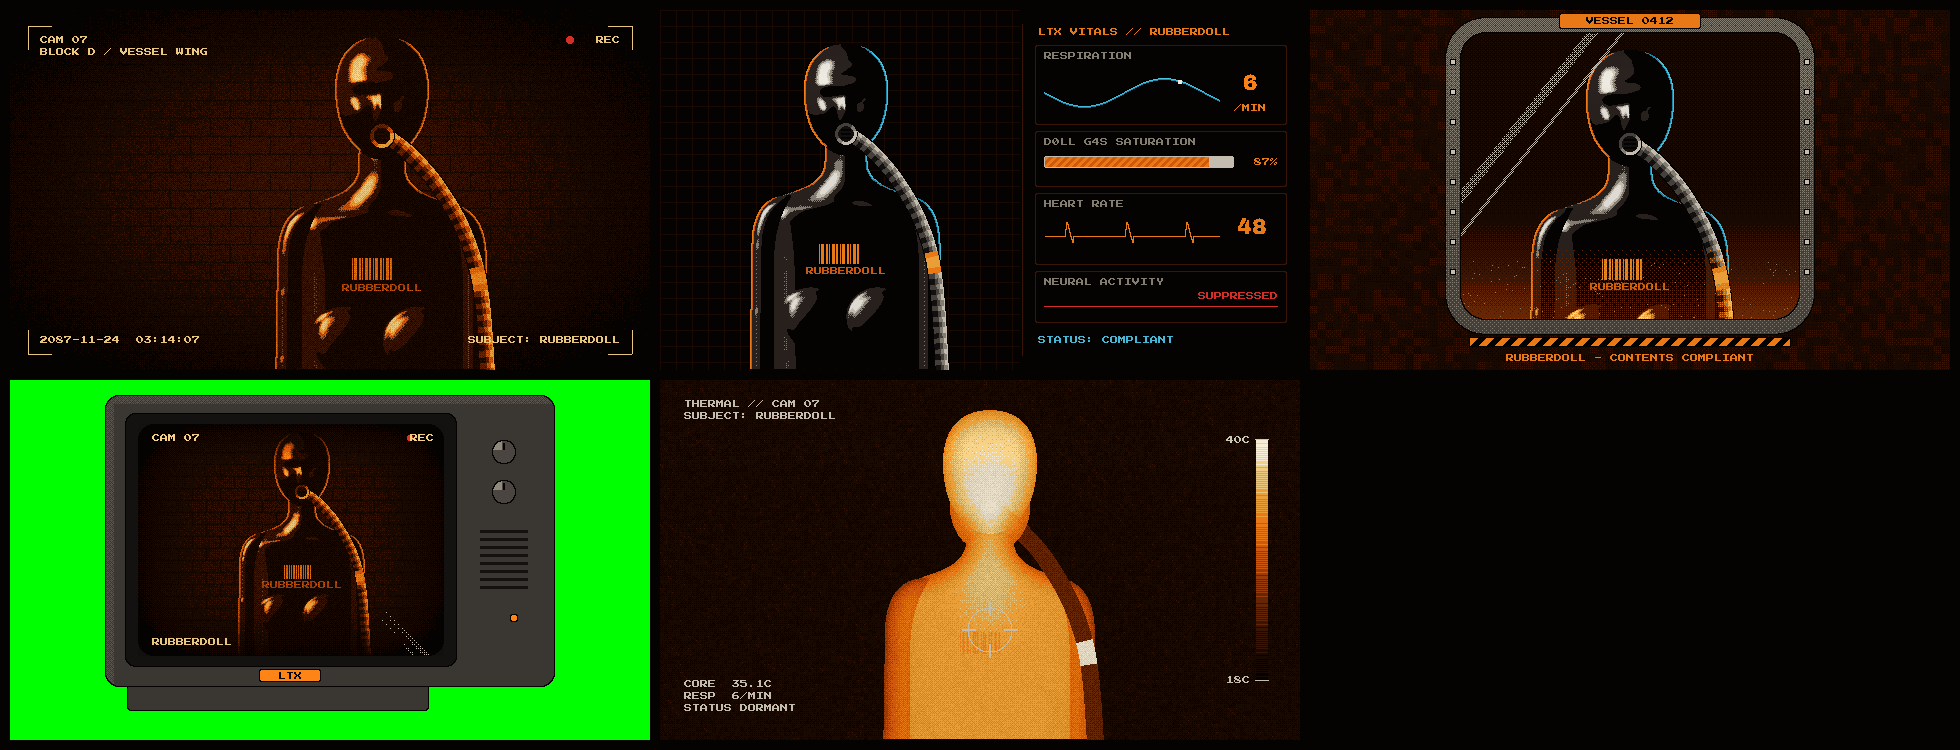
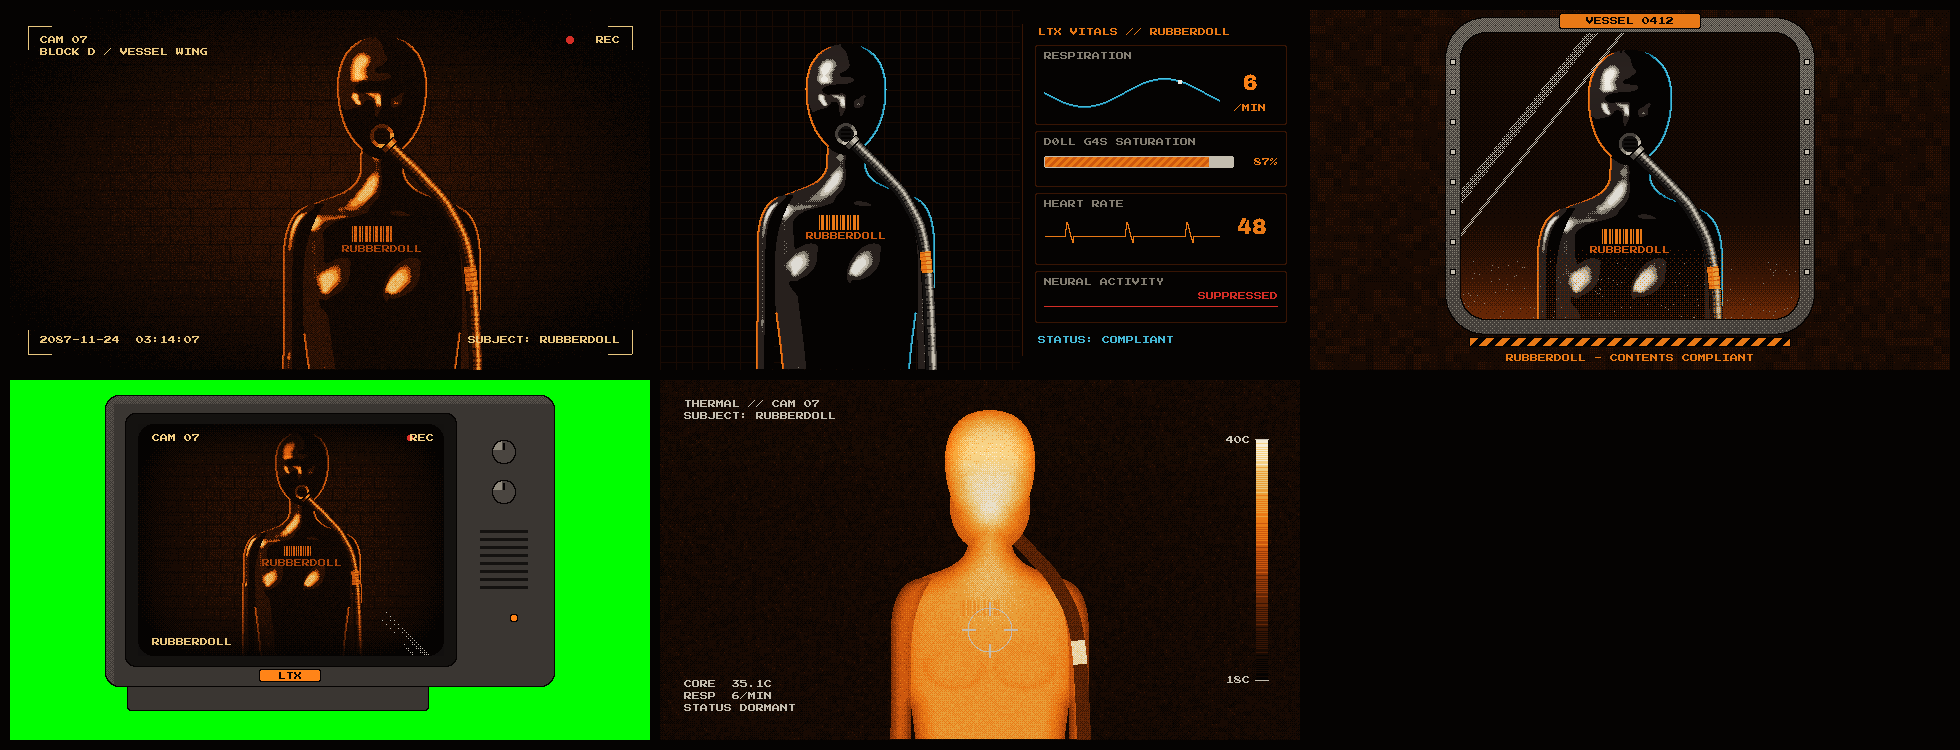
Prison film close-up: feminine proportions, bust at natural height, hose plugs into the valve
Smaller tapered head, slender neck, narrow sloping shoulders, slim arms and a
ribcage narrowing to the waist; the bust moves up to about two head-heights
below the crown with a smooth top slope and a defined underside. The breathing
hose is now corrugated with a metal cuff joining it to the respirator valve so
it no longer seems to vanish at the mouth. Rim lights follow outward edges only;
thermal view shades by surface angle.

Claude-Session: https://claude.ai/code/session_01Jhq9wuqZtSkoMNTVCY2PED

diff --git a/animations/prison/src/closeup.js b/animations/prison/src/closeup.js
@@ -65,18 +65,24 @@
   const gs = (u, v, su, sv) => Math.exp(-((u / su) ** 2) - ((v / sv) ** 2));
   const cap = (a, b) => { const r = a * a + b * b; return r < 1 ? Math.sqrt(1 - r) : 0; };   // a low spherical cap: crisp crescent highlights
   const sstep = (a, b, x) => { const t = clamp((x - a) / (b - a)); return t * t * (3 - 2 * t); };
+  // the bust: a long, smooth slope down from the upper chest and a short, defined curve underneath
+  const bust = (a, dv) => { const b = dv < 0 ? dv / 36 : dv / 24, r = a * a + b * b; if (r >= 1) return 0;
+    return Math.pow(1 - r, 0.5 + 1.5 * sstep(0.2, -0.7, b)); };
   function partMask(cx, y0, s, draw) { return UI.mask(g => { g.translate(cx, y0); g.scale(s, s); g.beginPath(); draw(g); g.fill(); }); }
-  const HEAD = g => { g.moveTo(0, 0); g.bezierCurveTo(30, 0, 47, 20, 47, 52); g.bezierCurveTo(47, 70, 44, 84, 38, 96); g.bezierCurveTo(30, 110, 16, 124, 0, 124);
-    g.bezierCurveTo(-16, 124, -30, 110, -38, 96); g.bezierCurveTo(-44, 84, -47, 70, -47, 52); g.bezierCurveTo(-47, 20, -30, 0, 0, 0); };
-  const BODY = lift => g => { g.moveTo(-23, 100); g.lineTo(-24, 134); g.bezierCurveTo(-26, 150, -40, 160 - lift, -62, 167 - lift); g.bezierCurveTo(-76, 171 - lift, -86, 178 - lift, -90, 192 - lift);
-    g.lineTo(-84, 240); g.lineTo(-82, 420); g.lineTo(82, 420); g.lineTo(84, 240);
-    g.lineTo(90, 192 - lift); g.bezierCurveTo(86, 178 - lift, 76, 171 - lift, 62, 167 - lift); g.bezierCurveTo(40, 160 - lift, 26, 150, 24, 134); g.lineTo(23, 100); };
-  const ARM = (sx, lift) => g => { g.moveTo(sx * 60, 170 - lift); g.bezierCurveTo(sx * 88, 168 - lift, sx * 104, 186 - lift, sx * 105, 222 - lift * 0.5); g.lineTo(sx * 108, 420);
-    g.lineTo(sx * 80, 420); g.lineTo(sx * 80, 252); g.bezierCurveTo(sx * 80, 222, sx * 78, 196, sx * 60, 170 - lift); };
-  const reliefHead = (u, v) => 4 * gs(u, v - 47, 30, 7) - 4 * gs(Math.abs(u) - 17, v - 58, 10, 7) + 7 * gs(u, v - 73, 5, 12)
-    + 4 * gs(Math.abs(u) - 25, v - 76, 10, 9) + 4 * gs(u, v - 116, 13, 6);
-  const reliefBody = (u, v, lift, breath) => 3 * gs(Math.abs(u) - 32, v - (180 - lift + Math.abs(u) * 0.1), 20, 3.5)
-    + (8 + 2 * breath) * cap((Math.abs(u) - 37) / 33, (v - 304) / 30);
+  // Proportions follow a feminine figure: a smaller, tapered jaw and soft features, a long slender neck, narrow
+  // sloping shoulders, slim arms, a ribcage that narrows towards the waist (the gap between arm and waist opens at the
+  // bottom of frame), and the bust at its natural height, about two head-heights down from the crown.
+  const HEAD = g => { g.moveTo(0, 0); g.bezierCurveTo(29, 0, 45, 19, 45, 50); g.bezierCurveTo(45, 68, 42, 82, 35, 96); g.bezierCurveTo(27, 110, 14, 123, 0, 123);
+    g.bezierCurveTo(-14, 123, -27, 110, -35, 96); g.bezierCurveTo(-42, 82, -45, 68, -45, 50); g.bezierCurveTo(-45, 19, -29, 0, 0, 0); };
+  const BODY = lift => g => { g.moveTo(-21, 100); g.lineTo(-22, 134); g.bezierCurveTo(-24, 150, -38, 159 - lift, -60, 166 - lift); g.bezierCurveTo(-73, 170 - lift, -82, 177 - lift, -86, 192 - lift);
+    g.lineTo(-84, 240); g.bezierCurveTo(-82, 290, -72, 330, -70, 380); g.lineTo(-70, 420); g.lineTo(70, 420); g.lineTo(70, 380); g.bezierCurveTo(72, 330, 82, 290, 84, 240);
+    g.lineTo(86, 192 - lift); g.bezierCurveTo(82, 177 - lift, 73, 170 - lift, 60, 166 - lift); g.bezierCurveTo(38, 159 - lift, 24, 150, 22, 134); g.lineTo(21, 100); };
+  const ARM = (sx, lift) => g => { g.moveTo(sx * 58, 170 - lift); g.bezierCurveTo(sx * 84, 167 - lift, sx * 98, 184 - lift, sx * 99, 220 - lift * 0.5); g.lineTo(sx * 100, 420);
+    g.lineTo(sx * 80, 420); g.lineTo(sx * 79, 252); g.bezierCurveTo(sx * 79, 222, sx * 76, 196, sx * 58, 170 - lift); };
+  const reliefHead = (u, v) => 2.5 * gs(u, v - 46, 28, 6) - 4 * gs(Math.abs(u) - 16, v - 56, 9, 6) + 5 * gs(u, v - 71, 4, 10)
+    + 5 * gs(Math.abs(u) - 23, v - 70, 10, 8) + 3 * gs(u, v - 114, 10, 5);
+  const reliefBody = (u, v, lift, breath) => 2.5 * gs(Math.abs(u) - 30, v - (180 - lift + Math.abs(u) * 0.1), 18, 3.5)
+    + (8 + 1.5 * breath) * bust((Math.abs(u) - 35) / 31, (v - 256 + lift * 0.5));
   function vessel({ cx, y0, s, breath = 0.5, gas = 0.4, plume = 0 }) {
     const col = new Array(N).fill(null), L = new Float32Array(N), heat = new Float32Array(N);
     const lift = breath * 3, br = Math.max(1, Math.round(2 * s));
@@ -103,42 +109,50 @@
         const nh = Math.max(0, n[0] * HV2[0] + n[1] * HV2[1] + n[2] * HV2[2]);
         const spec = Math.pow(nh, 60) + 0.06 * Math.pow(nh, 12), dif = Math.max(0, n[0] * LK2[0] + n[1] * LK2[1] + n[2] * LK2[2]) * 0.1;
         const edge = clamp(1 - (dAll[i] - 0.5) / rimW), side = n[0] / (Math.hypot(n[0], n[1]) || 1);
-        const rimC = edge * clamp((side - 0.1) * 1.6), rimO = edge * clamp((-side - 0.1) * 1.6);
+        const uu = (x + 0.5 - cx) / s;                                     // rims only on the outward-facing sides
+        const rimC = edge * clamp((side - 0.1) * 1.6) * clamp(uu / 10 + 0.5), rimO = edge * clamp((-side - 0.1) * 1.6) * clamp(-uu / 10 + 0.5);
         const j = (bayer(x, y) - 0.5) * 0.08;
         let c = spec + j > 0.55 ? C.white : spec + j > 0.3 ? C.whiteS : spec + j > 0.13 ? C.grey
           : rimC + j > 0.62 ? C.cyan : rimC + j > 0.3 ? C.cyanD : rimO + j > 0.62 ? C.orange : rimO + j > 0.3 ? C.orangeD : dif + spec > 0.075 ? GLOSS : C.black;
         if (d[i] < 1.3 && dAll[i] > 1.5) c = C.black;                  // a dark crease where one part overlaps another
         const hot = P.hot ? P.hot((x + 0.5 - cx) / s, (y + 0.5 - y0) / s) : 0;
-        col[i] = c; L[i] = lum(c); heat[i] = P.h - 0.14 + 0.06 * n[2] + 0.22 * Math.sqrt(clamp(dAll[i] / (22 * s))) + hot;
+        col[i] = c; L[i] = lum(c); heat[i] = P.h - 0.22 + 0.16 * n[2] + 0.2 * Math.sqrt(clamp(dAll[i] / (22 * s))) + hot;   // faces turned to the camera read warmer
       }
     });
-    // breathing tube: Catmull-Rom samples with arc length, drawn in front
-    const TP = [[10, 104], [28, 118], [56, 150], [84, 200], [100, 262], [108, 380]].map(([u, v]) => [cx + u * s, y0 + v * s]);
+    // breathing tube: a corrugated hose (Catmull-Rom samples with arc length) that plugs into the respirator valve with
+    // a metal cuff, runs over the right shoulder and down the arm. A pulse of orange gas travels up it.
+    const VC = [cx, y0 + 100 * s];
+    const TP = [[2, 104], [18, 120], [42, 144], [68, 176], [88, 232], [96, 380]].map(([u, v]) => [cx + u * s, y0 + v * s]);
     const tpts = [];
     for (let k = 0; k < TP.length - 1; k++) {
       const p0 = TP[Math.max(0, k - 1)], p1 = TP[k], p2 = TP[k + 1], p3 = TP[Math.min(TP.length - 1, k + 2)];
       for (let t = 0; t < 1; t += 0.01) { const t2 = t * t, t3 = t2 * t, f = (a, b, c2, d) => 0.5 * (2 * b + (-a + c2) * t + (2 * a - 5 * b + 4 * c2 - d) * t2 + (-a + 3 * b - 3 * c2 + d) * t3);
         tpts.push([f(p0[0], p1[0], p2[0], p3[0]), f(p0[1], p1[1], p2[1], p3[1])]); }
     }
-    const tS = new Float32Array(N).fill(-1), tW = new Float32Array(N), tD = new Float32Array(N).fill(1e9), R = 8.5 * s;
-    let len = 0;
+    const tS = new Float32Array(N).fill(-1), tW = new Float32Array(N), tD = new Float32Array(N).fill(1e9), R = 7 * s, RC = R * 1.3;
+    let len = 0, cuff0 = -1;
     for (let k = 0; k < tpts.length; k++) {
       if (k) len += Math.hypot(tpts[k][0] - tpts[k - 1][0], tpts[k][1] - tpts[k - 1][1]);
       const [px, py] = tpts[k], nx = k < tpts.length - 1 ? tpts[k + 1][0] - px : 1, ny = k < tpts.length - 1 ? tpts[k + 1][1] - py : 0, nl = Math.hypot(nx, ny) || 1;
-      for (let y = Math.floor(py - R - 1); y <= py + R + 1; y++) for (let x = Math.floor(px - R - 1); x <= px + R + 1; x++) {
+      if (cuff0 < 0 && Math.hypot(px - VC[0], py - VC[1]) > 10 * s) cuff0 = len;          // where the hose leaves the valve rim
+      for (let y = Math.floor(py - RC - 1); y <= py + RC + 1; y++) for (let x = Math.floor(px - RC - 1); x <= px + RC + 1; x++) {
         if (x < 0 || y < 0 || x >= W || y >= H) continue;
         const dx = x + 0.5 - px, dy = y + 0.5 - py, d = Math.hypot(dx, dy), i = y * W + x;
-        if (d <= R && d < tD[i]) { tD[i] = d; tS[i] = len; tW[i] = (dx * (-ny / nl) + dy * (nx / nl)) / R; }
+        if (d <= RC && d < tD[i]) { tD[i] = d; tS[i] = len; tW[i] = (dx * (-ny / nl) + dy * (nx / nl)) / R; }
       }
     }
-    const gasS = len * (1 - gas);
+    const C0 = cuff0 - 2 * s, C1 = cuff0 + 6 * s, gasS = len * (1 - gas), cuffPx = [];
+    const inCuff = ss => ss >= C0 && ss <= C1;
     for (let i = 0; i < N; i++) {
       if (tS[i] < 0) continue;
-      const w = tW[i], ss = tS[i], rib = Math.floor(ss / (6 * s)) & 1;
-      const l = 0.25 + 0.55 * clamp(-w * 0.8 + 0.35) - (rib ? 0.14 : 0);
-      let c = l > 0.62 ? C.whiteS : l > 0.42 ? C.grey : l > 0.24 ? GREYD : INK, h = 0.3;
-      if (Math.abs(ss - gasS) < 12 * s) { c = Math.abs(ss - gasS) < 6 * s ? C.orangeL : C.orange; h = 0.95; }
-      if (Math.abs(w) > 0.86) c = C.black;
+      const w = tW[i], ss = tS[i];
+      if (inCuff(ss)) { cuffPx.push(i); continue; }                      // painted after the valve, so it overlaps the rim
+      if (Math.abs(w) > 1) continue;
+      const groove = ((ss / (4.5 * s)) % 1) < 0.3;
+      let l = 0.32 + 0.5 * Math.exp(-(((w + 0.35) / 0.32) ** 2)) - 0.12 * Math.max(0, w) - (groove ? 0.12 : 0);
+      let c = l > 0.68 ? C.whiteS : l > 0.48 ? C.grey : l > 0.27 ? GREYD : INK, h = 0.3;
+      if (Math.abs(ss - gasS) < 12 * s) { c = groove ? C.orangeD : l > 0.45 ? C.orangeL : C.orange; h = 0.95; }
+      if (Math.abs(w) > 0.88) c = C.black;
       col[i] = c; L[i] = lum(c); heat[i] = h;
     }
     // respirator valve on the lower face
@@ -149,13 +163,20 @@
       else { c = INK; for (const k of [-4, 0, 4]) if (Math.abs(v - 100 - k) < 1.2 && Math.abs(u) < 6) c = C.black; }
       col[i] = c; L[i] = lum(c); heat[i] = 0.86;
     }
+    for (const i of cuffPx) {                                            // the metal cuff joining hose and valve
+      const w = tW[i], ss = tS[i], wc = w * R / RC;
+      let l = 0.5 + 0.4 * Math.exp(-(((wc + 0.3) / 0.4) ** 2)) - 0.18 * Math.max(0, wc);
+      let c = l > 0.72 ? C.whiteS : l > 0.5 ? C.grey : GREYD;
+      if (Math.abs(wc) > 0.9 || ss - C0 < 1.2 || C1 - ss < 1.2) c = C.black;
+      col[i] = c; L[i] = lum(c); heat[i] = 0.4;
+    }
     // orange barcode on the sternum, with the name under it
-    const bx = cx - 30 * s, by = y0 + 222 * s;
+    const bx = cx - 30 * s, by = y0 + 190 * s;
     for (let k = 0, x = bx; k < 12; k++) {
-      const w = Math.max(1, Math.round((1 + (k * 5) % 3) * s)); for (let yy = Math.round(by); yy < by + 22 * s; yy++) for (let xx = Math.round(x); xx < Math.round(x) + w; xx++) { const i = yy * W + xx; if (col[i]) { col[i] = C.orange; L[i] = lum(C.orange); heat[i] -= 0.06; } }
+      const w = Math.max(1, Math.round((1 + (k * 5) % 3) * s)); for (let yy = Math.round(by); yy < by + 16 * s; yy++) for (let xx = Math.round(x); xx < Math.round(x) + w; xx++) { const i = yy * W + xx; if (col[i]) { col[i] = C.orange; L[i] = lum(C.orange); heat[i] -= 0.06; } }
       x += w + Math.max(1, Math.round((1 + (k % 2)) * s));
     }
-    const nm = UI.text('RUBBERDOLL', `8px ${PX}`, cx, by + 26 * s, 'center');
+    const nm = UI.text('RUBBERDOLL', `8px ${PX}`, cx, Math.round(by + 16 * s + 3), 'center');
     for (let i = 0; i < N; i++) if (nm[i] && col[i]) { col[i] = C.orangeD; L[i] = lum(C.orangeD); }
     // warm breath around the valve, with wisps rising (thermal view)
     if (plume > 0) for (let y = 0; y < H; y++) for (let x = 0; x < W; x++) {

diff --git a/animations/prison/README.md b/animations/prison/README.md
@@ -246,10 +246,12 @@ A chest-up, dark breathing loop of the new RUBBERDOLL (the LTX vessel after the 
 
 The figure is shared by every concept:
 
-- **Build:** each body part (head, neck and torso, two arms) is a hand-drawn outline inflated into a rounded form with a distance transform. Subtle relief is sculpted in, with a face pressed up under the latex (brow, eye hollows, nose, cheekbones, chin), collarbones, and the chest's curve. The height field is softened before lighting.
-- **Lighting:** a sharp key from the upper left gives crisp latex highlights. Cyan (right) and warm orange (left) rim lights follow only the outer silhouette.
-- **Details:** a respirator valve on the lower face, a ribbed tube over the right shoulder carrying the orange gas pulse, and the orange barcode with RUBBERDOLL on the upper chest.
-- **Animation hooks:** `breath` lifts the shoulders and swells the chest; `gas` moves the pulse along the tube.
+- **Proportions:** clearly feminine. The head is smaller with a tapered jaw and soft features. The neck is long and slender, the shoulders narrow and sloping, and the arms slim. The ribcage narrows towards the waist, so a gap opens between arm and waist at the bottom of frame. The bust sits at its natural height, about two head-heights below the crown: a long smooth slope from the upper chest and a short, defined curve underneath.
+- **Build:** each body part (head, neck and torso, two arms) is a hand-drawn outline inflated into a rounded form with a distance transform. Subtle relief is sculpted in, with a face pressed up under the latex (brow, eye hollows, nose, cheekbones, chin). The height field is softened before lighting.
+- **Lighting:** a sharp key from the upper left gives crisp latex highlights. Cyan (right) and warm orange (left) rim lights follow only the outward-facing edges of the silhouette.
+- **Breathing hose:** a corrugated grey hose plugs into the respirator valve with a metal cuff, so it visibly connects at the mouth. It runs over the right shoulder and down the arm, carrying the orange gas pulse.
+- **Markings:** the orange barcode with RUBBERDOLL sits high on the chest, below the collarbones.
+- **Animation hooks:** `breath` lifts the shoulders and swells the chest; `gas` moves the pulse along the hose.
 
 | Concept | Look | Keyable |
 |---|---|---|
@@ -257,4 +259,4 @@ The figure is shared by every concept:
 | 2 · Bio-monitor | Figure beside live vitals: respiration 6/MIN waveform, D0LL G4S saturation 87%, ECG 48, a flat SUPPRESSED neural line, STATUS: COMPLIANT | no |
 | 3 · Containment window | Behind a riveted viewing window (VESSEL 0412) with orange gas rising from below, glass streaks, a hazard sill, "RUBBERDOLL - CONTENTS COMPLIANT" | no |
 | 4 · CRT monitor prop | A pixel-art security monitor on `#00FF00` showing the amber feed. The CRT pass is limited to the screen; green checked clean | yes |
-| 5 · Thermal camera | Heat palette: warm face and neck, cooler arms and edges, cold tube with a hot gas pulse, breath plume at the valve, crosshair, 40C–18C scale, CORE / RESP / STATUS DORMANT | no |
+| 5 · Thermal camera | Heat palette: warm face and neck, cooler arms and edges, surfaces facing the camera warmer (so the form reads), cold tube with a hot gas pulse, breath plume at the valve, crosshair, 40C–18C scale, CORE / RESP / STATUS DORMANT | no |
